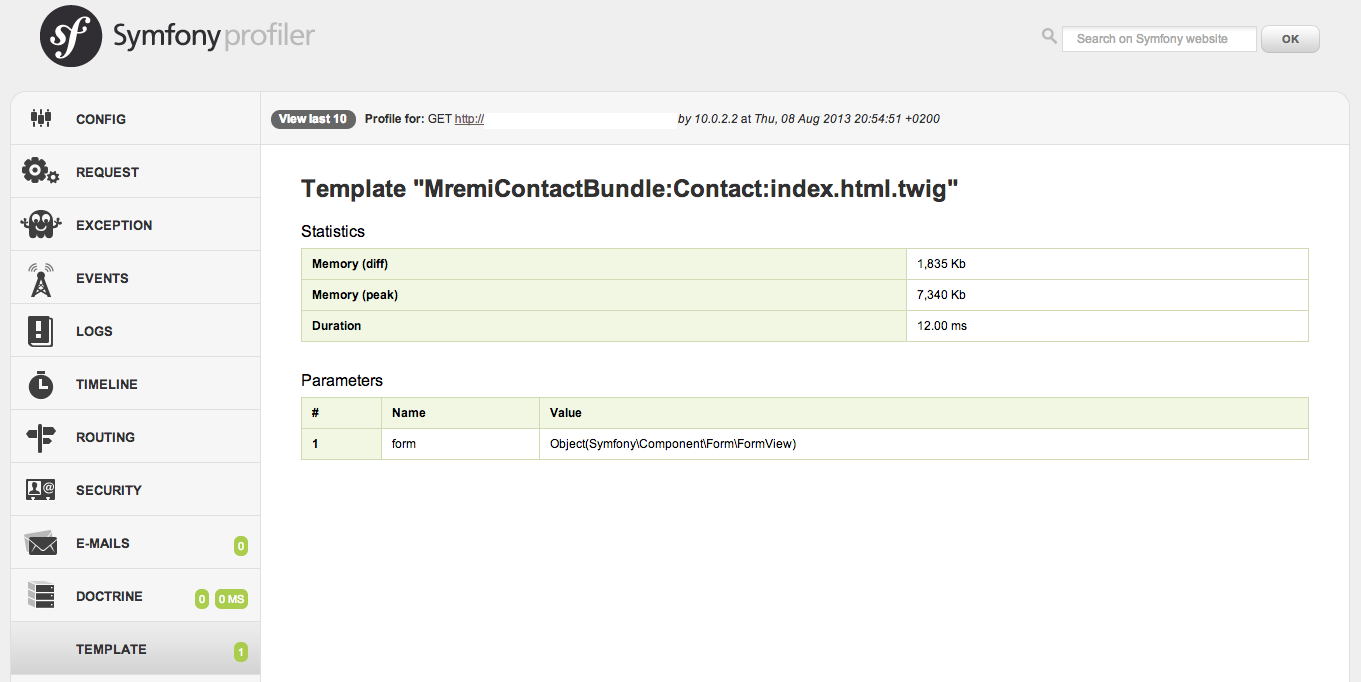
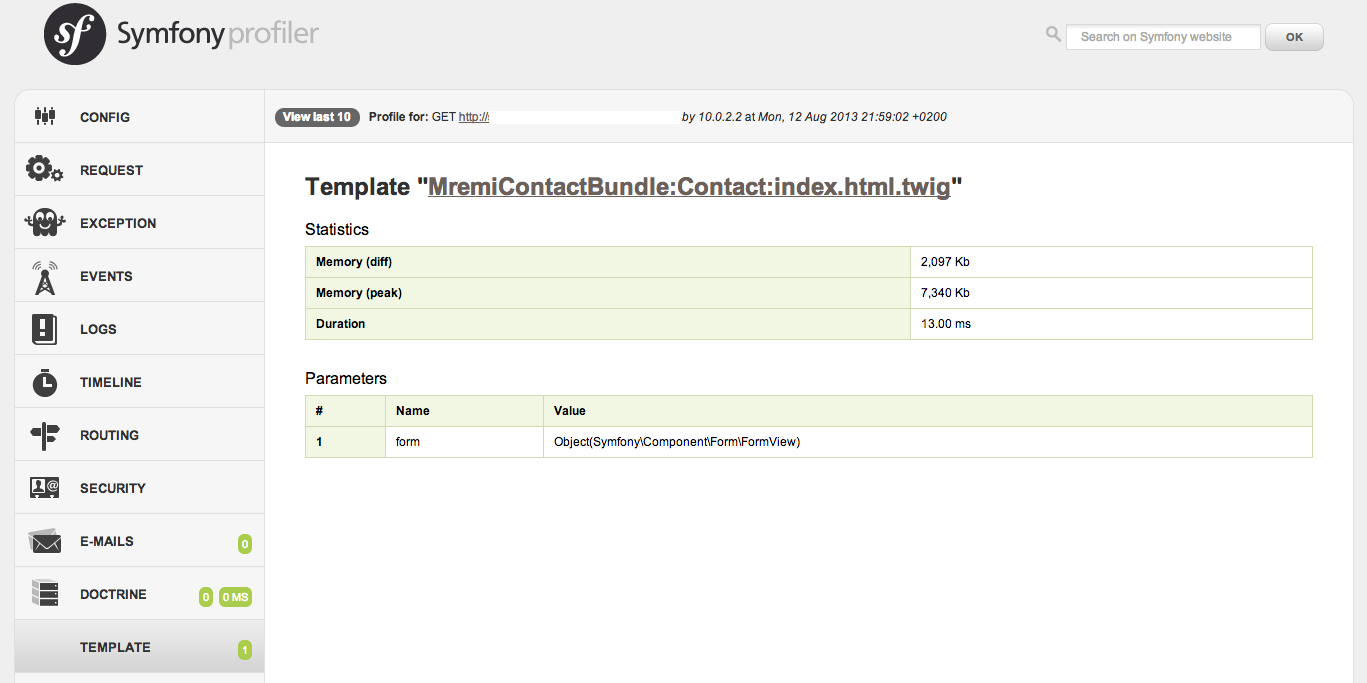
Added link to open template in the configured IDE

diff --git a/Templating/TemplatingProxy.php b/Templating/TemplatingProxy.php
@@ -5,6 +5,8 @@ namespace Mremi\TemplatingExtraBundle\Templating;
 use Mremi\TemplatingExtraBundle\DataCollector\TemplatingDataCollector;
 
 use Symfony\Bundle\FrameworkBundle\Templating\EngineInterface;
+use Symfony\Bundle\FrameworkBundle\Templating\Loader\TemplateLocator;
+use Symfony\Bundle\FrameworkBundle\Templating\TemplateNameParser;
 use Symfony\Component\HttpFoundation\Response;
 use Symfony\Component\Stopwatch\Stopwatch;
 use Symfony\Component\Stopwatch\StopwatchEvent;
@@ -21,6 +23,16 @@ class TemplatingProxy implements EngineInterface
      * @var EngineInterface
      */
     private $templating;
+
+    /**
+     * @var TemplateNameParser
+     */
+    private $templateNameParser;
+
+    /**
+     * @var TemplateLocator
+     */
+    private $templateLocator;
 
     /**
      * @var Stopwatch
@@ -40,15 +52,19 @@ class TemplatingProxy implements EngineInterface
     /**
      * Constructor
      *
-     * @param EngineInterface         $templating    A templating instance
-     * @param Stopwatch               $stopWatch     A Stopwatch instance
-     * @param TemplatingDataCollector $dataCollector A templating data collector instance
+     * @param EngineInterface         $templating         A templating instance
+     * @param TemplateNameParser      $templateNameParser A template name parser instance
+     * @param TemplateLocator         $templateLocator    A template locator instance
+     * @param Stopwatch               $stopWatch          A Stopwatch instance
+     * @param TemplatingDataCollector $dataCollector      A templating data collector instance
      */
-    public function __construct(EngineInterface $templating, Stopwatch $stopWatch, TemplatingDataCollector $dataCollector)
+    public function __construct(EngineInterface $templating, TemplateNameParser $templateNameParser, TemplateLocator $templateLocator, Stopwatch $stopWatch, TemplatingDataCollector $dataCollector)
     {
-        $this->templating    = $templating;
-        $this->stopwatch     = $stopWatch;
-        $this->dataCollector = $dataCollector;
+        $this->templating         = $templating;
+        $this->templateNameParser = $templateNameParser;
+        $this->templateLocator    = $templateLocator;
+        $this->stopwatch          = $stopWatch;
+        $this->dataCollector      = $dataCollector;
     }
 
     /**
@@ -105,10 +121,11 @@ class TemplatingProxy implements EngineInterface
      */
     private function startProfiling($name, array $parameters)
     {
-        $templateName = $name instanceof TemplateReferenceInterface ? $name->getLogicalName() : $name;
+        $templateReference = $name instanceof TemplateReferenceInterface ? $name : $this->templateNameParser->parse($name);
 
         $this->trace = array(
-            'name'         => $templateName,
+            'name'         => $templateReference->getLogicalName(),
+            'file'         => $this->templateLocator->locate($templateReference),
             'parameters'   => $parameters,
             'duration'     => null,
             'memory_start' => memory_get_usage(true),
@@ -116,7 +133,7 @@ class TemplatingProxy implements EngineInterface
             'memory_peak'  => null,
         );
 
-        return $this->stopwatch->start($templateName);
+        return $this->stopwatch->start($templateReference->getLogicalName());
     }
 
     /**

diff --git a/README.md b/README.md
@@ -78,3 +78,6 @@ HTTP request: number of templates, consumed memory, request duration...
 Moreover, you can see all parameters passed to each template.
 
 ![Screenshot](https://raw.github.com/mremi/TemplatingExtraBundle/master/Resources/doc/images/profiler.png)
+
+If you configured the [framework bundle](http://symfony.com/doc/current/reference/configuration/framework.html#ide)
+(or `xdebug.file_link_format`), you can edit templates just by clicking on name.
